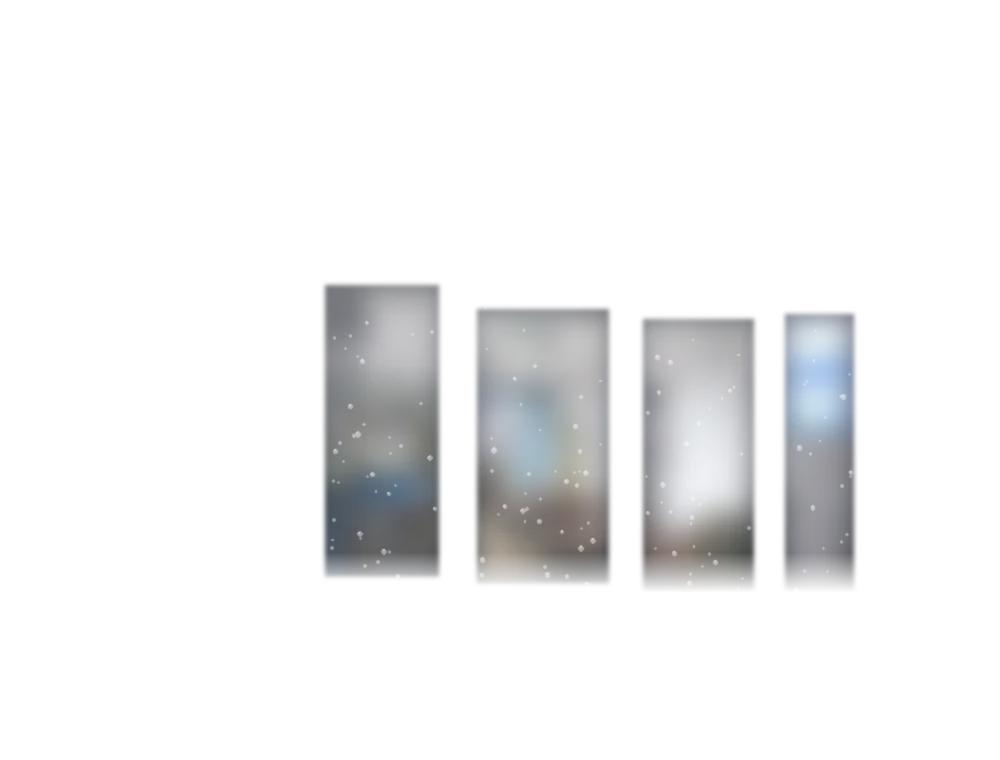
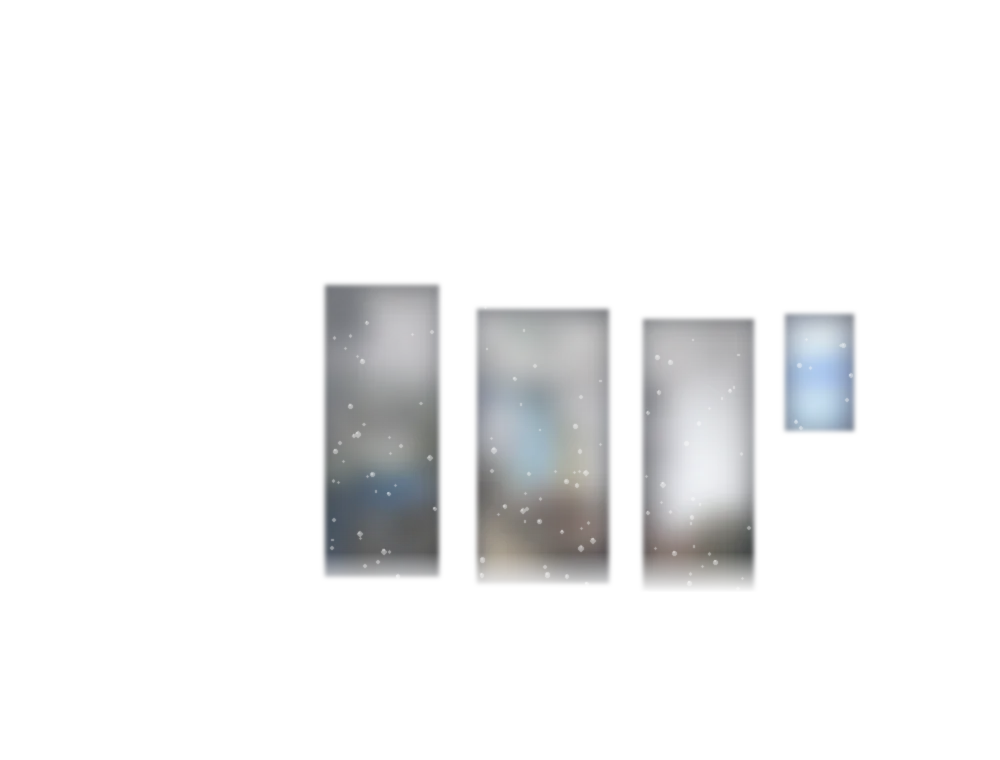
Cafe Flow v12.1: a TV alatti fehér falnál nincs pára (ott a fotón sincs mit letörölni) [skip netlify]
Claude-Session: https://claude.ai/code/session_0132wmoq5xkoSoWzz8MQA5NQ

Changed region(s): [[0.775, 0.5447, 0.868, 0.7868]]

diff --git a/site/js/main.js b/site/js/main.js
@@ -813,7 +813,7 @@
     var stack = $('.hero__stack'); if (!stack) return;
     var CW = 750, CH = 570, S = CW / 1000;
     // üvegtáblák a 1000x760-as képen (forras/para.py-val egyezik)
-    var PANES = [[323, 283, 440, 578], [475, 307, 610, 585], [641, 317, 755, 600], [783, 312, 855, 615]].map(function (p) { return p.map(function (v) { return v * S; }); });
+    var PANES = [[323, 283, 440, 578], [475, 307, 610, 585], [641, 317, 755, 600], [783, 312, 855, 432]].map(function (p) { return p.map(function (v) { return v * S; }); });
     var cv = document.createElement('canvas'); cv.className = 'hero__l hero__fog'; cv.setAttribute('aria-hidden', 'true');
     cv.width = CW; cv.height = CH;
     var ctx = cv.getContext('2d'); if (!ctx) return;
@@ -823,7 +823,7 @@
     gr.addColorStop(0, 'rgba(0,0,0,1)'); gr.addColorStop(.5, 'rgba(0,0,0,.8)'); gr.addColorStop(1, 'rgba(0,0,0,0)');
     bx.fillStyle = gr; bx.fillRect(0, 0, 64, 64);
     stack.appendChild(cv);
-    var img = new Image(); img.decoding = 'async'; img.src = 'img/hero-fog.webp?v=12';
+    var img = new Image(); img.decoding = 'async'; img.src = 'img/hero-fog.webp?v=13';
     var ok = false, vis = true, run = false, dirty = true, hasMask = false, lastWipe = 0, lastDecay = 0, drops = [], nextDrop = 0, autoT = null;
     var hint = $('#heroHint'), wiped = 0, hintOff = false;
     function compose() {

diff --git a/forras/para.py b/forras/para.py
@@ -6,7 +6,7 @@ random.seed(7); np.random.seed(7)
 W, H = 1000, 760
 on = Image.open('site/img/hero-on-2400.webp').convert('RGB').resize((W, H), Image.LANCZOS)
 # üvegtáblák (x0, y0, x1, y1) a 1000x760-as képen
-PANES = [(323, 283, 440, 578), (475, 307, 610, 585), (641, 317, 755, 600), (783, 312, 855, 615)]
+PANES = [(323, 283, 440, 578), (475, 307, 610, 585), (641, 317, 755, 600), (783, 312, 855, 432)]
 m = Image.new('L', (W, H), 0); d = ImageDraw.Draw(m)
 for x0, y0, x1, y1 in PANES: d.rectangle((x0 + 2, y0 + 2, x1 - 2, y1 - 2), fill=255)
 m = m.filter(ImageFilter.GaussianBlur(2.2))
